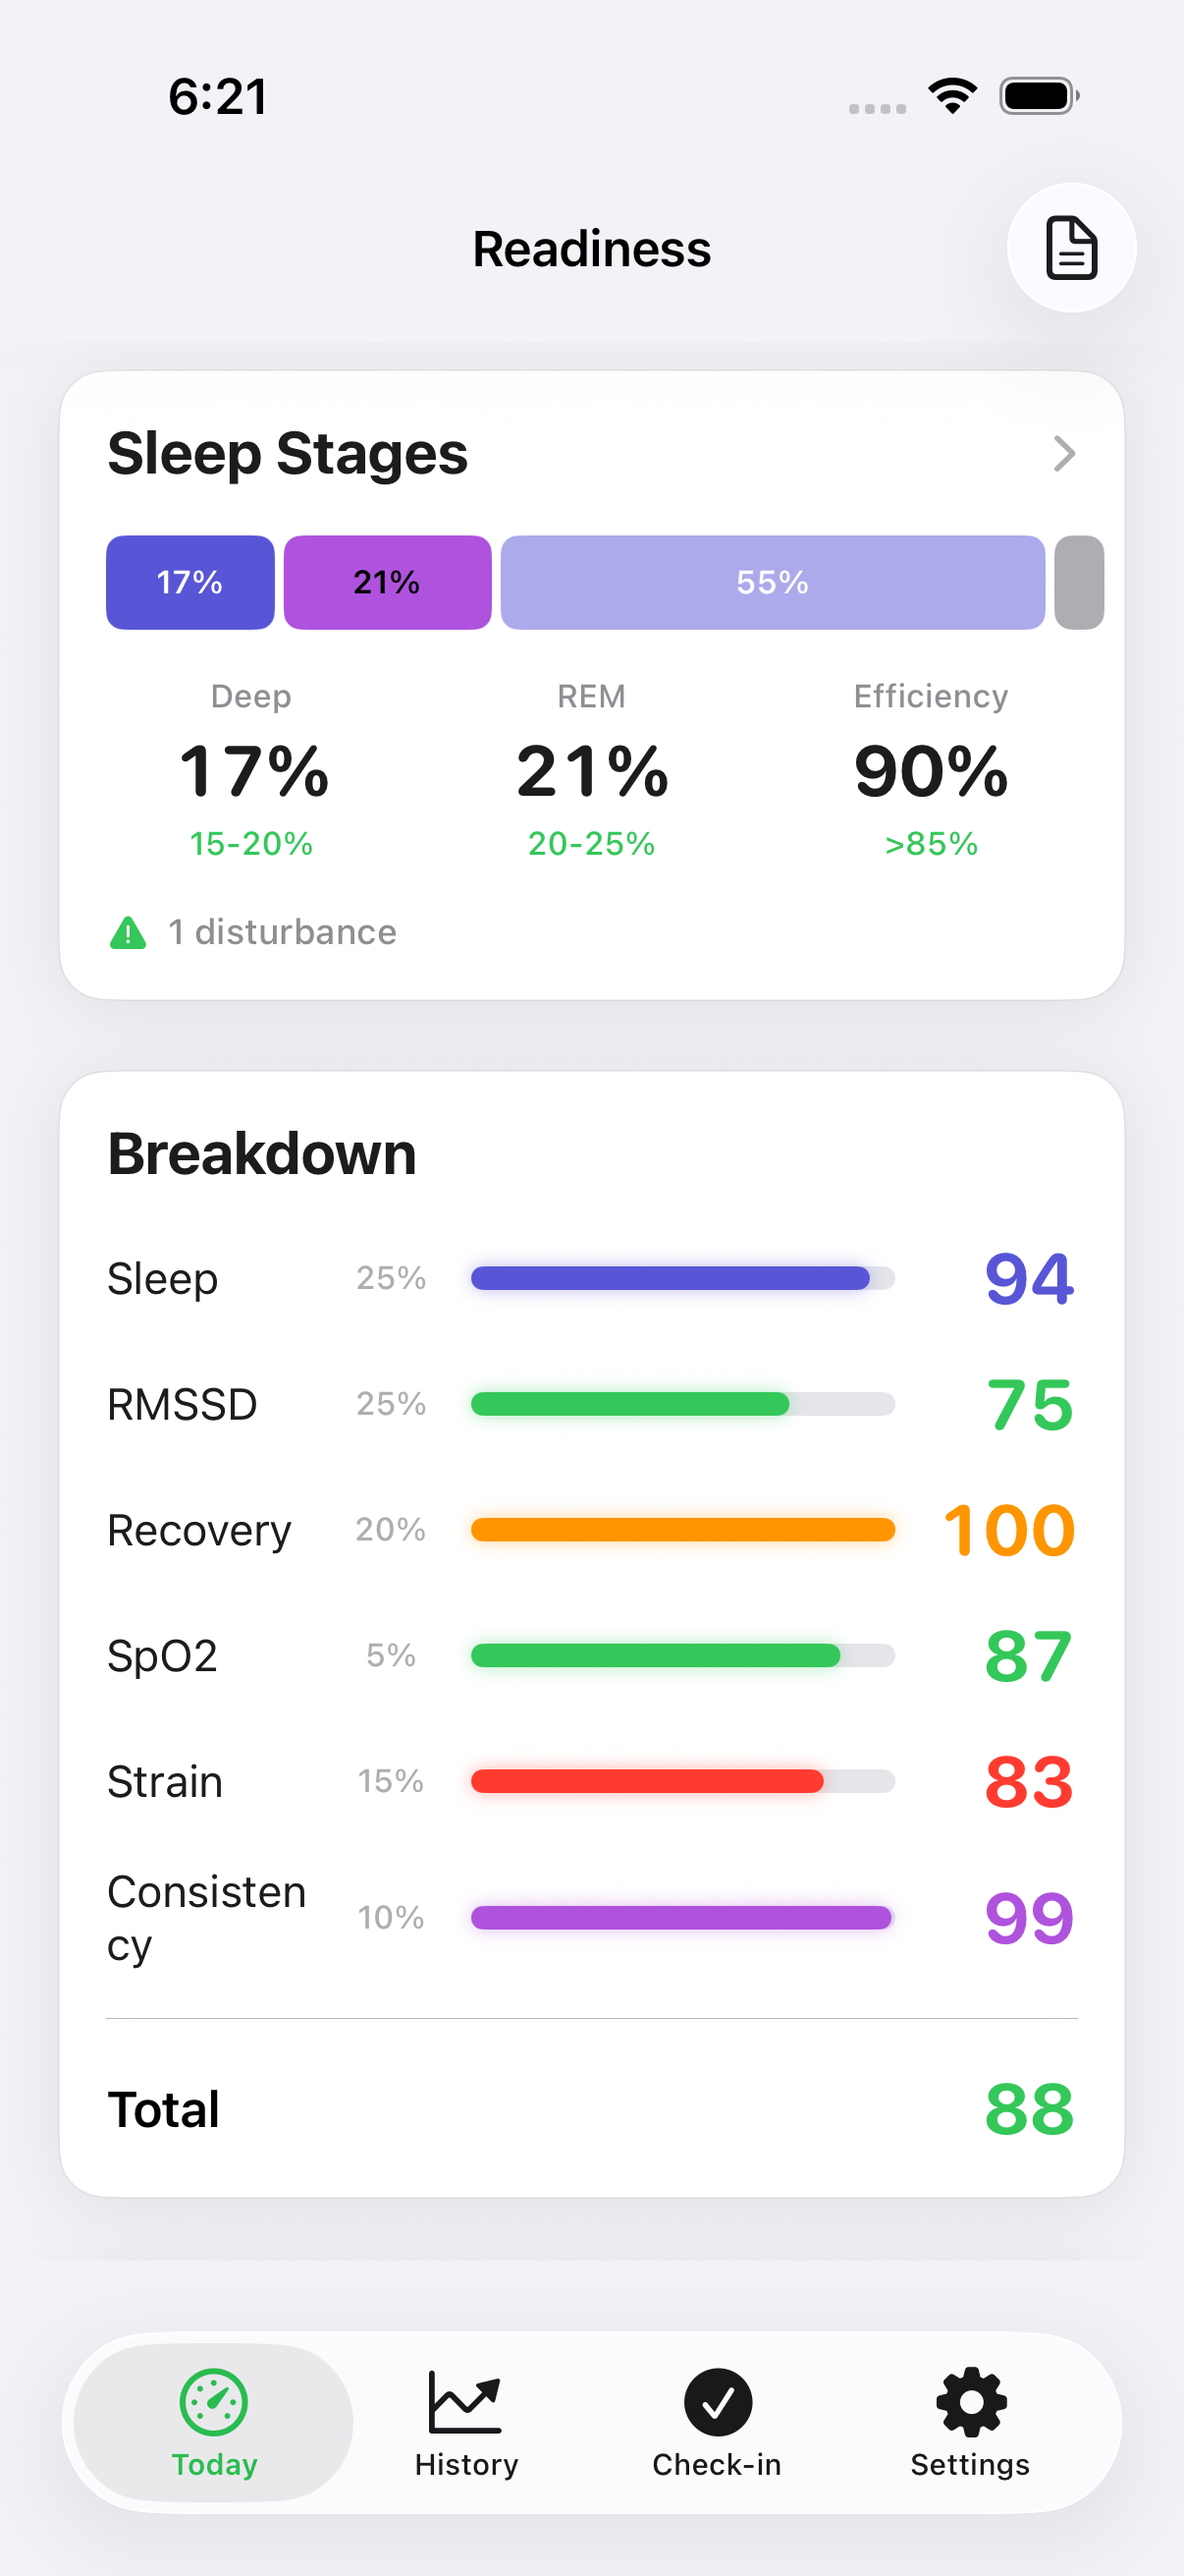
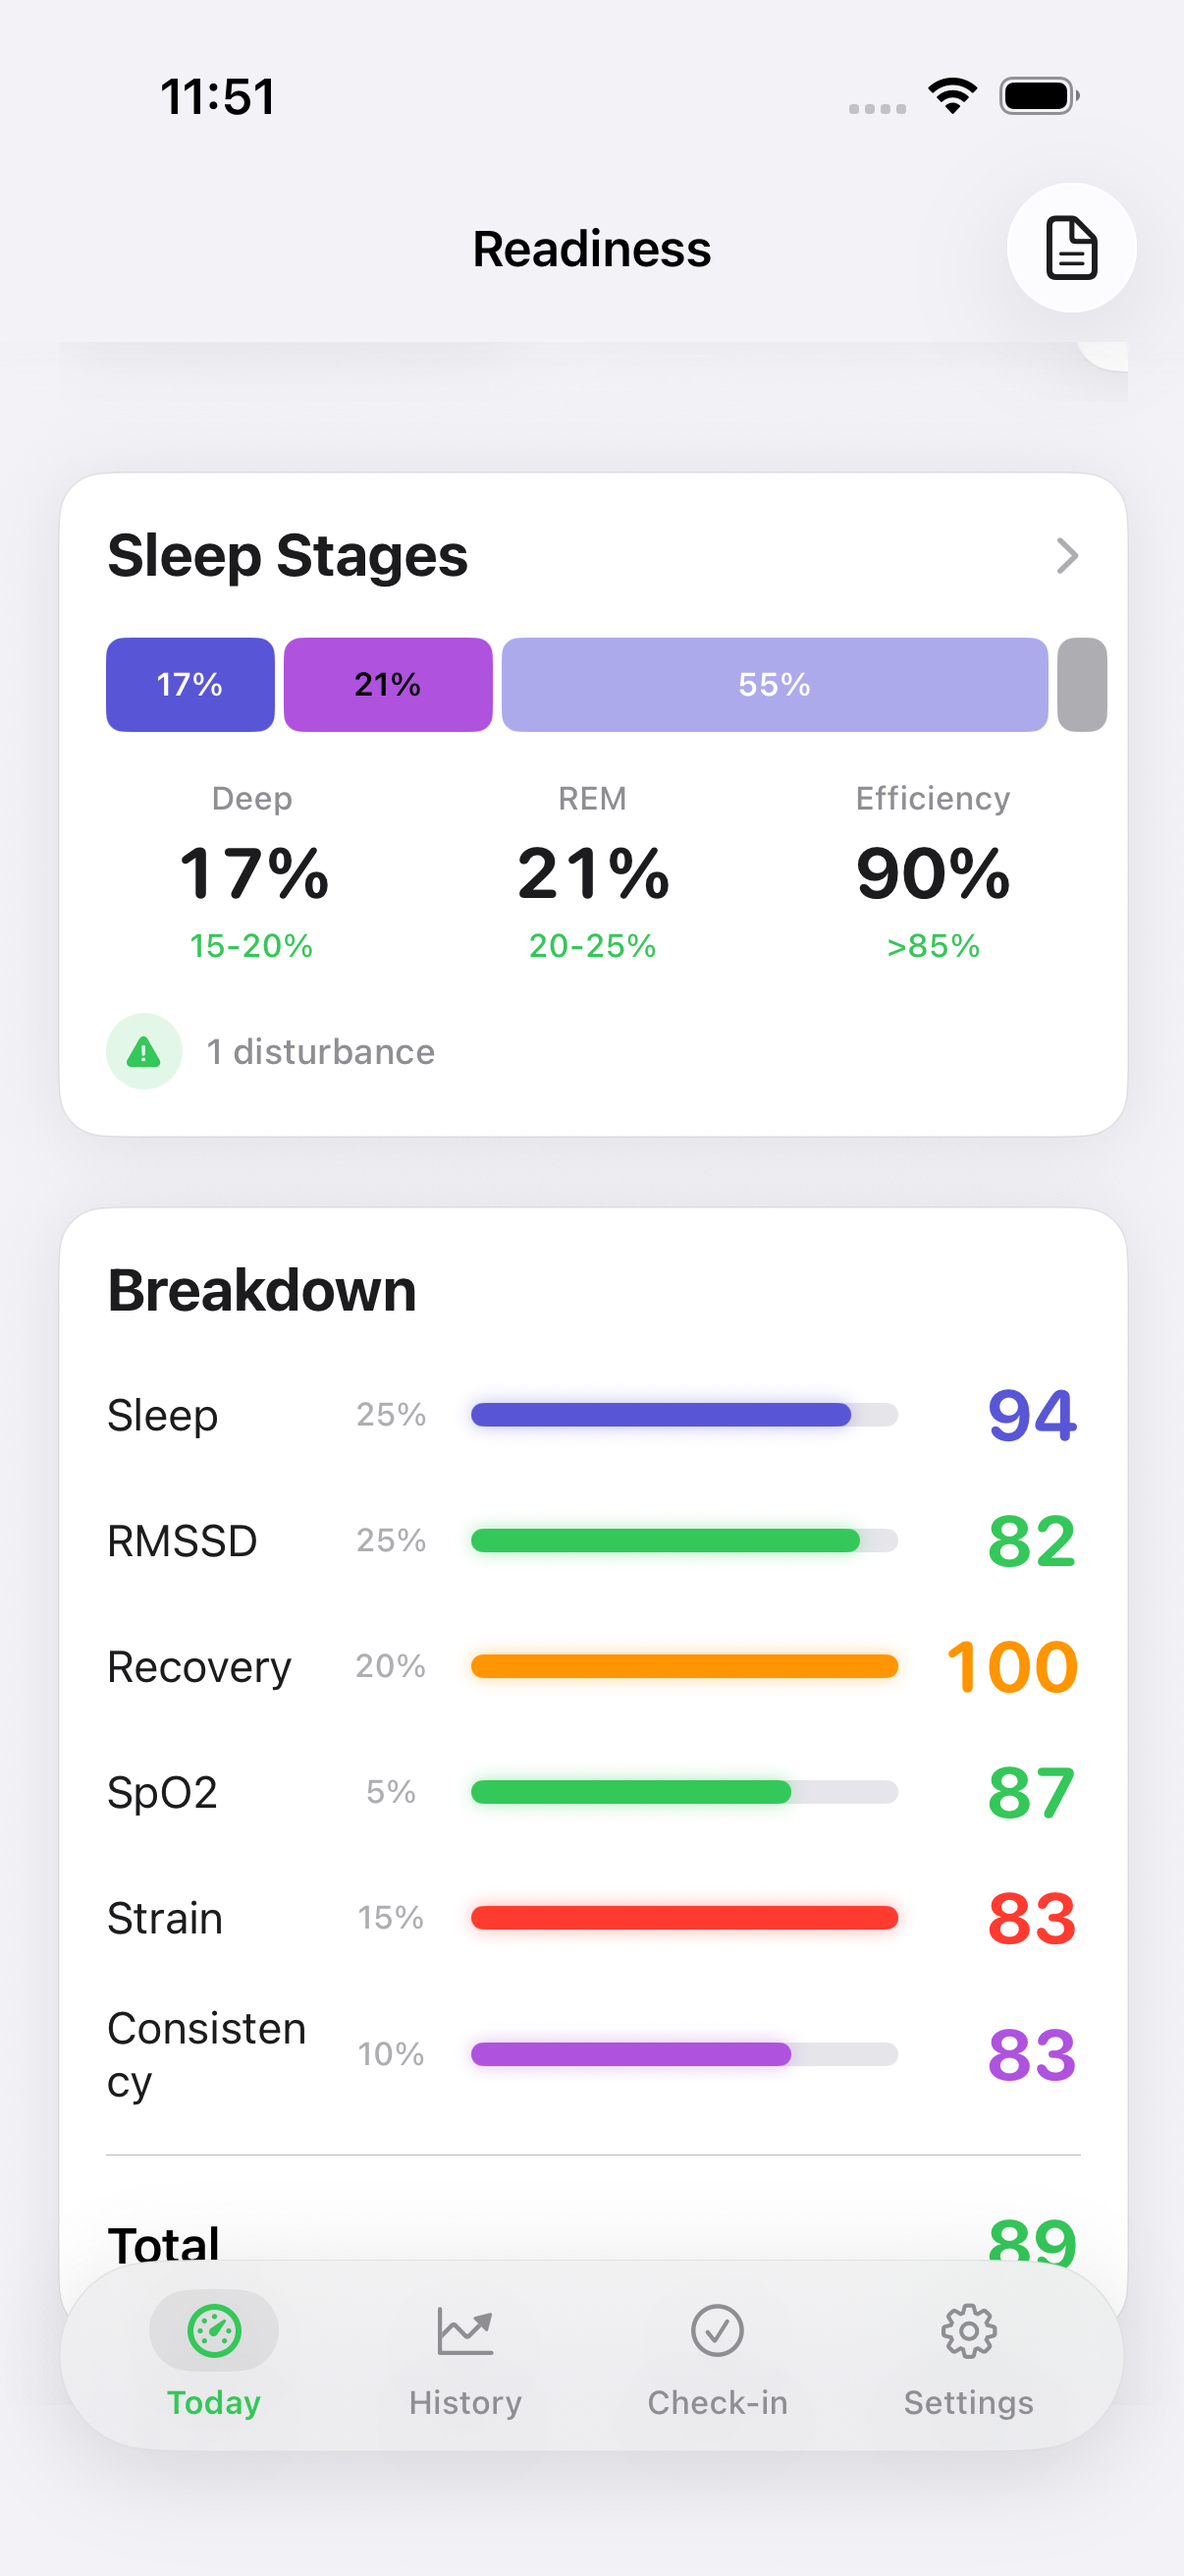
feat(today): Apple Sleep Stages disturbance cue well (Honest #73) (#91)
Circular tint well on the Sleep Stages disturbance cue; refresh audit PNG.

diff --git a/ReadinessTracker/Views/DashboardView.swift b/ReadinessTracker/Views/DashboardView.swift
@@ -571,10 +571,15 @@ struct DashboardView: View {
                         StageLabel(label: "Efficiency", percent: data.sleepEfficiency, optimal: ">85%", isOptimal: data.sleepEfficiency >= 0.85)
                     }
 
-                    HStack(spacing: 6) {
+                    HStack(spacing: 8) {
+                        // Honest #73: Apple circular tint well on Sleep Stages disturbance cue.
                         Image(systemName: "exclamationmark.triangle.fill")
-                            .font(.caption)
+                            .font(.system(size: 11, weight: .semibold))
                             .foregroundStyle(data.wakeEpisodes <= 2 ? RTColor.optimal : RTColor.caution)
+                            .frame(width: 26, height: 26)
+                            .background((data.wakeEpisodes <= 2 ? RTColor.optimal : RTColor.caution).opacity(0.14))
+                            .clipShape(Circle())
+                            .accessibilityHidden(true)
                         Text(data.wakeEpisodes == 1 ? "1 disturbance" : "\(data.wakeEpisodes) disturbances")
                             .font(.caption.weight(.medium))
                             .foregroundStyle(RTColor.secondaryText)

diff --git a/ReadinessTrackerUITests/SurfacesUITests.swift b/ReadinessTrackerUITests/SurfacesUITests.swift
@@ -316,6 +316,7 @@ final class SurfacesUITests: XCTestCase {
     }
 
     func testSleepDisturbanceSurfaceVisibleAfterScroll() throws {
+        // Honest #73: Sleep Stages disturbance cue circular tint well.
         // Today Sleep Stages card: fixture wakeEpisodes: 1 → "1 disturbance" + a11y "Sleep disturbances".
         revealText("Sleep Stages")
         let row = app.descendants(matching: .any)["Sleep disturbances"].firstMatch

diff --git a/.cursor/skills/verify-readiness-tracker/features/sleep-disturbance-well.md b/.cursor/skills/verify-readiness-tracker/features/sleep-disturbance-well.md
@@ -1,0 +1,18 @@
+# Today Sleep Stages disturbance well
+
+## Sub-features
+- Sleep Stages card disturbance cue on Today
+- Leading SF Symbol uses a circular tint well (optimal ≤2 wakes, caution otherwise)
+
+## How to get to it (user POV)
+1. Open Today
+2. Scroll to Sleep Stages
+3. See “N disturbances” with a circular tint warning well
+
+## Driving it with the harness
+- UITest: `SurfacesUITests.testSleepDisturbanceSurfaceVisibleAfterScroll`
+- Captures `.audit/verify-sleep-disturbances.png`
+
+## Gotchas
+- Keep accessibility label “Sleep disturbances”
+- Do not invent Fitness+ chrome

diff --git a/.cursor/skills/verify-readiness-tracker/features/README.md b/.cursor/skills/verify-readiness-tracker/features/README.md
@@ -6,3 +6,4 @@
 | Today dashboard (bright) | `today-dashboard.md` | Light-mode screenshot after launch |
 | Sleep stages (Apple Health) | `sleep-stages.md` | Day Detail stages card; Core not Light |
 | Today check-in status wells | `checkin-status-wells.md` | Morning|Evening circular wells |
+| Today sleep disturbance well | `sleep-disturbance-well.md` | Sleep Stages cue circular well |
